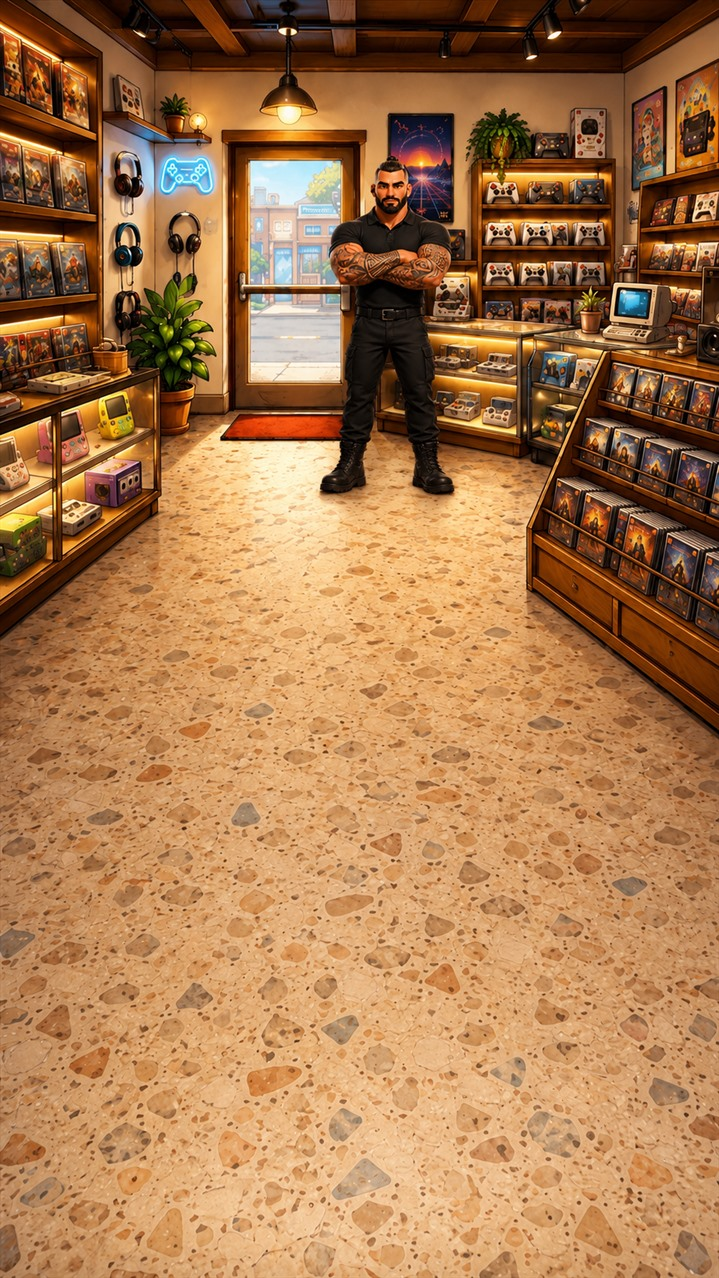
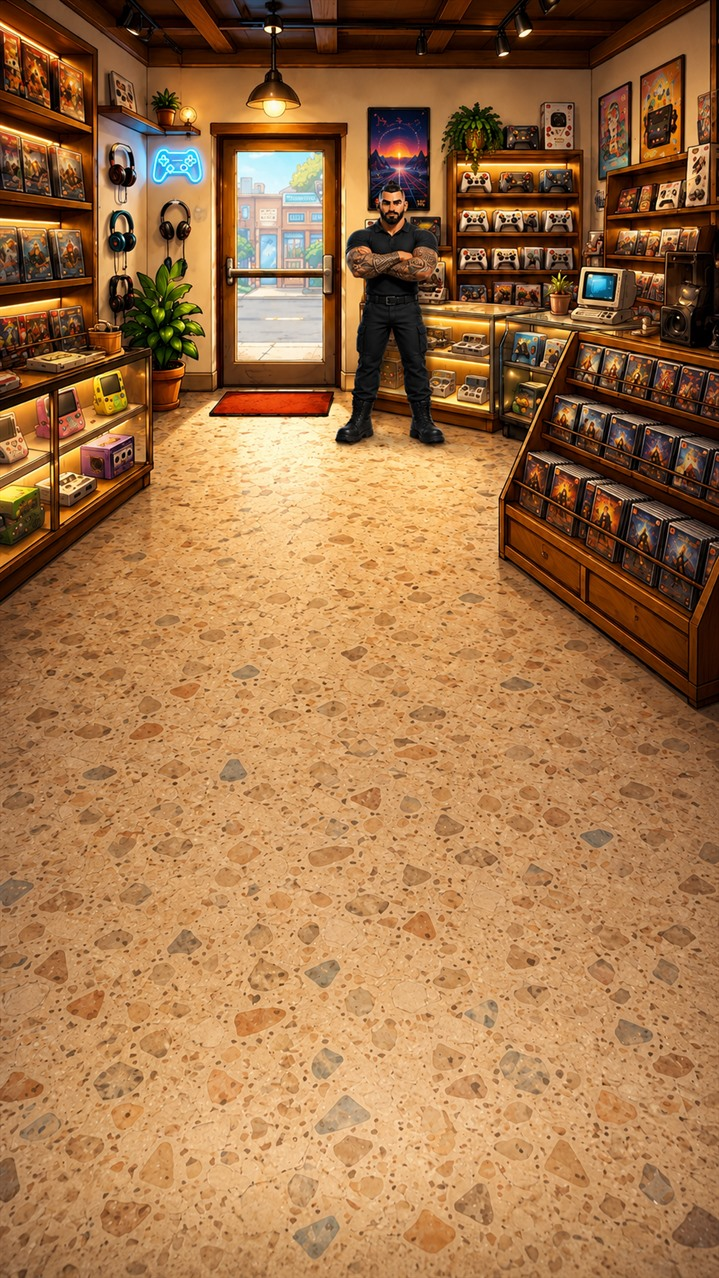
fix(dukkan): mahalle guvenlikli gorseli yenilendi + kapi siluet kaymasi
- dukkan_mahalle_guv.jpg kullanicinin verdigi yeni cizimle degistirildi
  (guvenligin yeri biraz saga kaydi). En-boy orani 0.5628 mahalle ailesiyle
  eslesiyor, bodrum degil (0.6657) - bu yuzden mahalle'nin guvenlikli
  surumu olarak konuldu.

- BUG: yeni cizimde kapi cami biraz kaymis (izgarayla olculdu: 0.010 sola,
  0.006 yukari). Tek kapi olcusu iki surume birden dayatilinca guvenlik
  acikken siluet camdan tasiyordu.
  Cozum: DukkanSeviye'ye kapiSolGuvFark / kapiUstGuvFark eklendi
  (varsayilan 0). _buildKapidaki ekranda hangi arka plan varsa ona gore
  farki ekliyor. Ortalama almak yerine fark tutuldu - ortalama iki
  gorselde de yanlis olurdu. Su an sadece Mahalle kullaniyor.

flutter analyze: 6 (degisiklik yok)
testler: guvenlik_test.dart 21 test gecti
Emulatorde dogrulandi: siluet artik camin icinde, cerceveye tasmiyor.

diff --git a/lib/main.dart b/lib/main.dart
@@ -161,6 +161,14 @@ class DukkanSeviye {
   /// `kapi*` ölçüleri iki görsel için de geçerli.
   final String arkaplanGuv;
 
+  /// Güvenlikli görsel AYNI dükkanın yeniden çizimi olduğu için kapı camı bir
+  /// miktar kayabiliyor. Silüet iki sürümde de tam camda dursun diye güvenlikli
+  /// sürüme uygulanan fark (0..1 oranı, varsayılan 0 = kayma yok).
+  ///
+  /// ⚠ Ortalama bir değerle idare etmek yerine fark tutuluyor: ortalama, iki
+  /// görselde de yanlış olurdu.
+  final double kapiSolGuvFark, kapiUstGuvFark;
+
   /// Satılık dükkanlarda satın alma bedeli; kiralıklarda null.
   /// Satın alınan dükkanda **günlük kira ödenmez** (`kira` 0 verilir).
   final int? satinAlmaFiyati;
@@ -172,6 +180,7 @@ class DukkanSeviye {
     required this.arkaplan, required this.arkaplanGuv, required this.arkaplanOrani,
     required this.kapiSol, required this.kapiUst, required this.kapiGen, required this.kapiYuk,
     this.satinAlmaFiyati,
+    this.kapiSolGuvFark = 0, this.kapiUstGuvFark = 0,
   });
 
   /// Günlük müşteri sayısını ağırlıklı random ile belirle
@@ -217,7 +226,10 @@ const List<DukkanSeviye> tumDukkanlar = [
     arkaplan: 'assets/dukkan_mahalle.jpg', arkaplanGuv: 'assets/dukkan_mahalle_guv.jpg', arkaplanOrani: 719 / 1278,
     // kapiUst: silüet yukarıda kalıyordu — kendi yüksekliğinin %10'u kadar
     // aşağı indirildi (0.1228 + 0.1667*0.10). Boy ve yatay ölçüler SABİT.
-    kapiSol: 0.3380, kapiUst: 0.1395, kapiGen: 0.1408, kapiYuk: 0.1667),
+    kapiSol: 0.3380, kapiUst: 0.1395, kapiGen: 0.1408, kapiYuk: 0.1667,
+    // Güvenlikli sürüm yeniden çizildi ve kapı camı biraz kaydı: ızgarayla
+    // ölçüldü, cam 0.010 sola / 0.006 yukarı gitmiş.
+    kapiSolGuvFark: -0.010, kapiUstGuvFark: -0.006),
   DukkanSeviye(seviye: 3, isim: 'Cadde Dükkanı',        kira: 900,  minGun: 5,
     arkaplan: 'assets/dukkan_cadde.jpg',   arkaplanGuv: 'assets/dukkan_cadde_guv.jpg',   arkaplanOrani: 719 / 1278,
     kapiSol: 0.3350, kapiUst: 0.1517, kapiGen: 0.1160, kapiYuk: 0.1582),
@@ -6050,11 +6062,16 @@ class _GameScreenState extends State<GameScreen> with TickerProviderStateMixin {
         dh = sh; dw = sh * gorselOrani;
       }
       final sol = (sw - dw) / 2, ust = (sh - dh) / 2;
+      // Ekranda hangi arka plan varsa kapı ona göre konumlanır: güvenlikli
+      // sürüm ayrı bir çizim olduğu için camı biraz kaymış olabiliyor.
+      final guv = _state.guvenlikVar;
+      final kapiSol = d.kapiSol + (guv ? d.kapiSolGuvFark : 0);
+      final kapiUst = d.kapiUst + (guv ? d.kapiUstGuvFark : 0);
       // Kutu = kapı camı. `fill` ile silüet camı boşluksuz doldurur.
       return Stack(children: [
         Positioned(
-          left:   sol + d.kapiSol * dw,
-          top:    ust + d.kapiUst * dh,
+          left:   sol + kapiSol * dw,
+          top:    ust + kapiUst * dh,
           width:  d.kapiGen * dw,
           height: d.kapiYuk * dh,
           child: Image.asset('assets/kapidaki.png', fit: BoxFit.fill),

diff --git a/CLAUDE.md b/CLAUDE.md
@@ -270,6 +270,24 @@ yeniden ölçmek yerine taşımak için:
 > ⚠ Eşleşme KAYDI: v111'de "seviye 3"e yapılan %15 genişletme artık **AVM**'ye
 > ait; Cadde eski bgbos_4 ölçüleriyle gidiyor. Karıştırma.
 
+### 🪤 Güvenlikli görselin kapısı kayabilir — `kapi*GuvFark`
+Güvenlikli sürüm aynı dükkanın **yeniden çizimi**; kapı camı bir miktar
+kayabiliyor. Tek kapı ölçüsü ikisine birden dayatılınca silüet güvenlik
+açıkken camdan taşıyor.
+
+`DukkanSeviye.kapiSolGuvFark` / `kapiUstGuvFark` bu farkı tutuyor (varsayılan
+0). `_buildKapidaki` ekranda hangi arka plan varsa ona göre ekliyor:
+
+```dart
+final guv = _state.guvenlikVar;
+final kapiSol = d.kapiSol + (guv ? d.kapiSolGuvFark : 0);
+final kapiUst = d.kapiUst + (guv ? d.kapiUstGuvFark : 0);
+```
+
+> İki değerin ORTALAMASINI almak yerine fark tutuluyor — ortalama, iki
+> görselde de yanlış olurdu. Şu an sadece **Mahalle** kullanıyor
+> (-0.010 / -0.006); güvenlikli çizimi yenilendiği için camı kaymıştı.
+
 Çarşı + 5 satılık dükkanın kapı camı tek tek ölçüldü: her görsel **tek başına**
 900px panelde %1'lik ızgarayla okundu, sonra dikdörtgen görselin üstüne
 çizdirilip gözle doğrulandı. (Otomatik parlaklık tabanlı ölçüm yine duvarı cam
